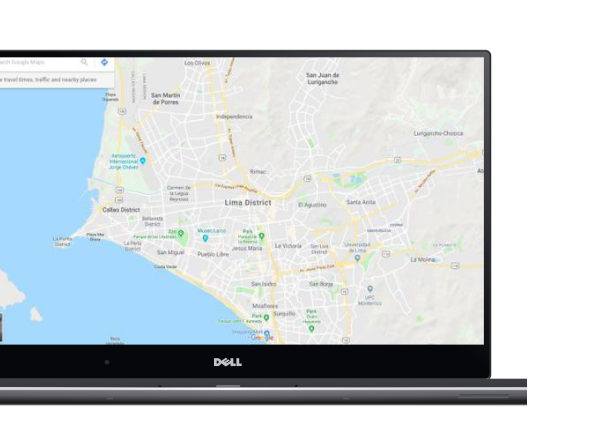
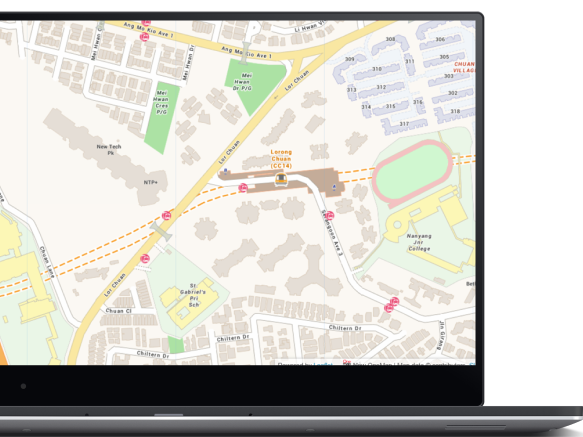
:hammer: adjustment details

diff --git a/components/Navbar/index.tsx b/components/Navbar/index.tsx
@@ -100,7 +100,7 @@ export default function Navbar() {
                     <div className="hidden text-white text-base xl:flex items-center">
                         <Button
                             className="btn-sm bg-white hover:bg-white"
-                            onClick={() => router.push('/contacts')}
+                            onClick={() => router.push('/contact')}
                         >
                             {t('Contact')}
                         </Button>
@@ -144,7 +144,7 @@ export default function Navbar() {
                             {t('Projects')}
                         </a>
                     </Link>
-                    <Link href="/contacts">
+                    <Link href="/contact">
                         <a className="font-sofia py-4 text-3xl">
                             {t('Contact')}
                         </a>

diff --git a/sections/projects/Header.tsx b/sections/projects/Header.tsx
@@ -41,17 +41,17 @@ export default function Header() {
         {
             title: 'Advance ERP',
             subtitle: t('ERP designed and built to...'),
-            image: '/img/erp.png'
+            image: '/images/project/erp.png'
         },
         {
             title: 'Street map',
             subtitle: t('Serverless REST API designed and...'),
-            image: '/images/project/dell_xps.png'
+            image: '/images/project/street_map.png'
         },
         {
-            title: 'Electrical network viewer',
+            title: 'Utility network viewer',
             subtitle: t('Responsive web application native...'),
-            image: '/img/visor.png'
+            image: '/images/project/dell_xps.png'
         }
     ]
 

diff --git a/sections/Footer.tsx b/sections/Footer.tsx
@@ -57,7 +57,7 @@ export default function Footer() {
                             <Icon name="whatsapp" className="inline mr-2" />
                             {t('Write to us')}
                             <a
-                                href="https://api.whatsapp.com/send?phone=51956941872&text=Hola+Bitzone+deseo+informaci%C3%B3n+sobre+un+proyecto+a+realizar"
+                                href="https://api.whatsapp.com/send?phone=51956941872&text=Hola+Bitzone,+quiero+hablar+acerca+de+esta+idea+que+tengo"
                                 target="_blank"
                                 rel="noreferrer"
                                 className="text-base ml-2 underline font-overpass-bold"

diff --git a/sections/projects/ListProjects.tsx b/sections/projects/ListProjects.tsx
@@ -57,14 +57,14 @@ export default function ListProjects() {
             icons: ['img/netlify.svg', 'img/nextjs.svg', 'img/prismic.svg']
         },
         {
-            name: 'MinkAI',
+            name: t('AI & Web Project'),
             image: '/images/project/minkai.jpg',
             type: t('Web Project'),
             description: t('Recruitment management platform...'),
             icons: [
                 'img/react-logo.svg',
-                'img/csharp-logo.svg',
-                'img/sqlServer-logo.svg'
+                'images/project/python.png',
+                'images/project/aws.png'
             ]
         }
     ]

diff --git a/sections/home/Section3.tsx b/sections/home/Section3.tsx
@@ -30,8 +30,8 @@ export default function Section3() {
                         style={{ maxWidth: '131px' }}
                     />
                     <img
-                        src="/images/home-section3/astrum.png"
-                        alt="astrum"
+                        src="/images/home-section3/senati.svg"
+                        alt="senati"
                         className="mx-auto w-full"
                         style={{ maxWidth: '142px' }}
                     />

diff --git a/sections/CallToContact.tsx b/sections/CallToContact.tsx
@@ -22,7 +22,7 @@ export default function CallToContact({
                 </div>
                 <Button
                     className="w-full lg:w-auto lg:py-2 lg:px-5 mt-5 lg:mt-0"
-                    onClick={() => router.push('/contacts')}
+                    onClick={() => router.push('/contact')}
                 >
                     {t('Contact us')}
                 </Button>

diff --git a/pages/contact.tsx b/pages/contact.tsx
@@ -1,9 +1,9 @@
 import Footer from '../sections/Footer'
 import Navbar from '../components/Navbar'
 import PageHead from '../components/PageHead'
-import FormContact from '../sections/contacts/FormContact'
+import FormContact from '../sections/contact/FormContact'
 
-export default function Contacts() {
+export default function Contact() {
     return (
         <>
             <PageHead

diff --git a/components/Drawer/index.tsx b/components/Drawer/index.tsx
@@ -96,7 +96,7 @@ export default function Drawer() {
                             {t('Projects')}
                         </a>
                     </Link>
-                    <Link href="/contacts">
+                    <Link href="/contact">
                         <a className="font-sofia py-4 text-3xl">
                             {t('Contact')}
                         </a>
